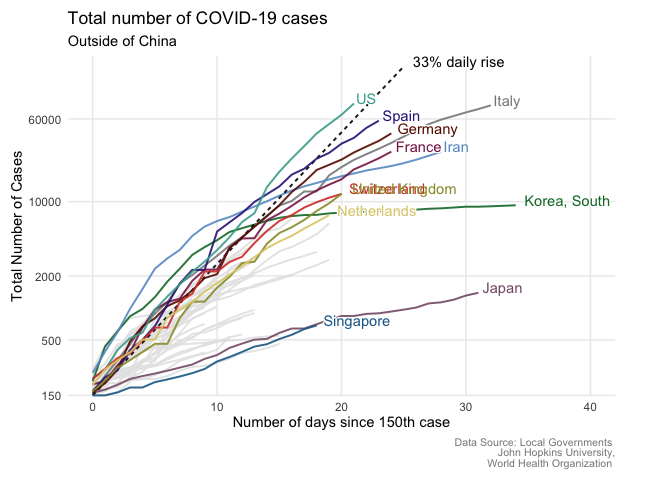
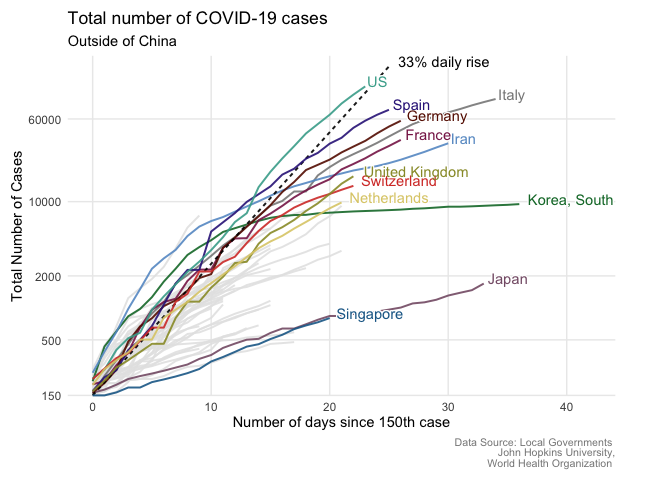
updated new data sunday

diff --git a/README.md b/README.md
@@ -70,7 +70,7 @@ names(cases_raw)
     ## [57] "3/14/20"        "3/15/20"        "3/16/20"        "3/17/20"       
     ## [61] "3/18/20"        "3/19/20"        "3/20/20"        "3/21/20"       
     ## [65] "3/22/20"        "3/23/20"        "3/24/20"        "3/25/20"       
-    ## [69] "3/26/20"
+    ## [69] "3/26/20"        "3/27/20"        "3/28/20"
 
 In order to recreate the chart, inspired by John Burn-Murdoch work, we
 need to tidy the data first, and then do some basic manipulation on it.
